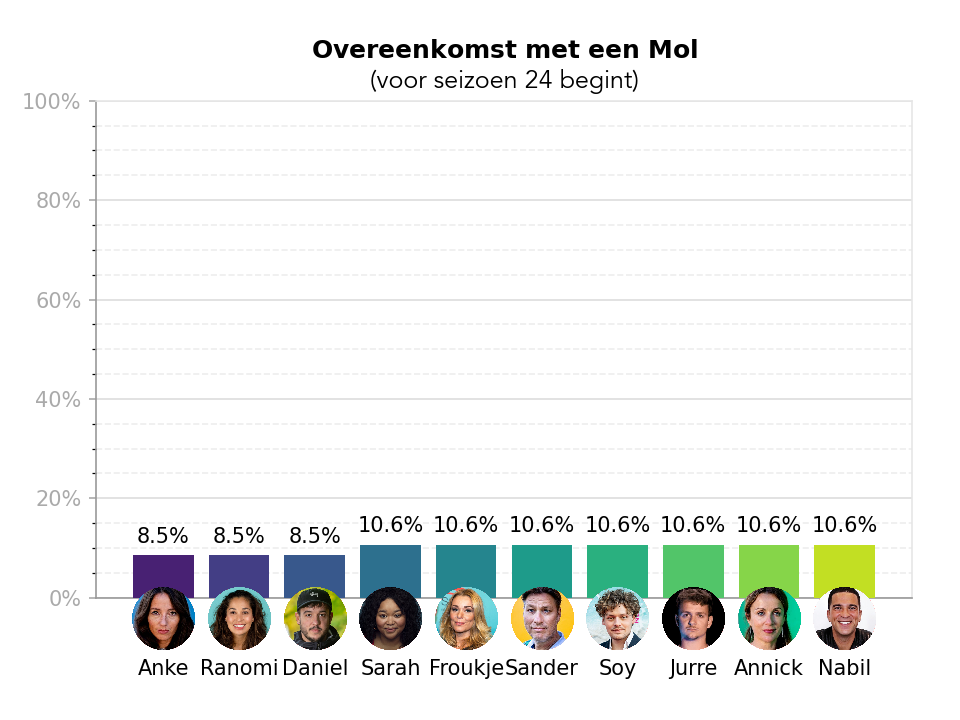
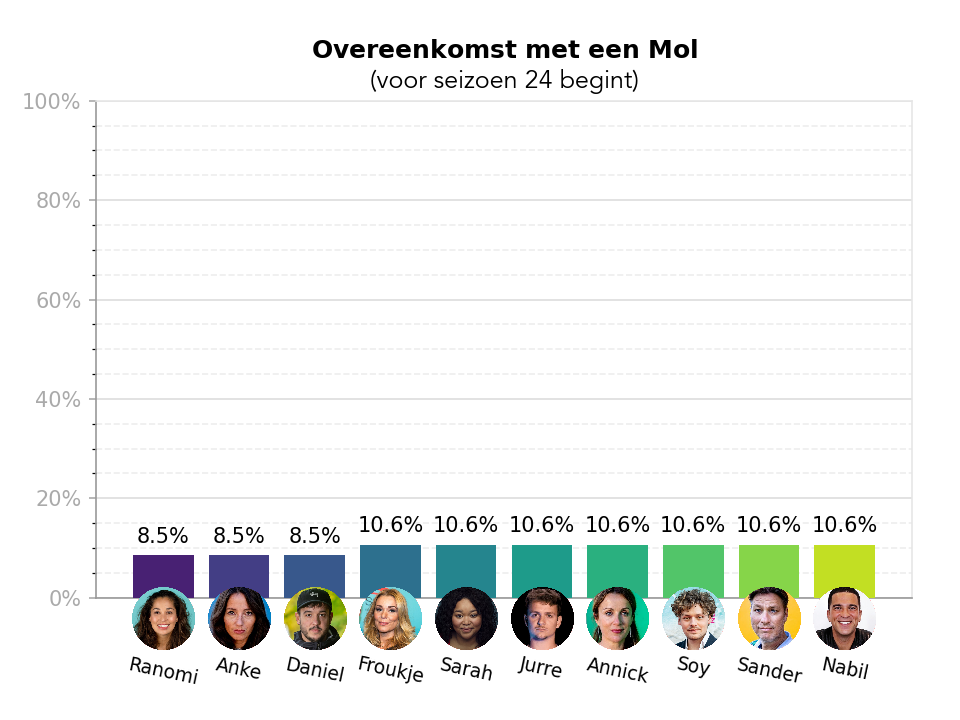
improve bar chart export for seasons without images

Changed region(s): [[0.125, 0.7944, 0.9062, 0.9472]]

diff --git a/moldel/Printers/BarChartPrinter.py b/moldel/Printers/BarChartPrinter.py
@@ -1,16 +1,15 @@
 from collections import deque
-
-from PIL import Image, ImageDraw
-
-from Data.PlayerData import get_name
 from Data.Player import Player
+from Data.PlayerData import get_name
 from iteround import saferound
+from matplotlib.offsetbox import OffsetImage, AnnotationBbox
+from PIL import Image, ImageDraw
 from Printers.Printer import Printer
 from typing import Dict, Union, List
-import matplotlib.ticker as mtick
-from matplotlib.offsetbox import OffsetImage, AnnotationBbox
 import matplotlib.pyplot as plt
+import matplotlib.ticker as mtick
 import numpy as np
+import os
 import seaborn as sns
 
 
@@ -58,6 +57,7 @@ class BarChartPrinter(Printer):
         plt.gca().spines['right'].set_color('0.9')
         plt.gca().spines['left'].set_color('0.6')
         plt.gca().tick_params(axis="x", which="minor", bottom=False)
+        plt.xticks(fontsize=9, rotation=-12)
         plt.gca().tick_params(axis='y', colors="#aaa")
         plt.grid(True, which="major", axis="y", color="#ddd", zorder=0)
         plt.grid(True, which="minor", axis="y", color="#eee", zorder=0, linestyle="--")
@@ -65,34 +65,36 @@ class BarChartPrinter(Printer):
         plt.ylim(0, 100)
         container = plt.bar(names, likelihoods, color=colors, zorder=3)
         plt.bar_label(container, fmt="%.1f%%", color="#000", zorder=4, padding=4)
+        plt.gca().set_xticks(range(len(names)))
+        plt.gca().set_xticklabels(names)
 
         def get_photo(name):
             path = "moldel/Data/Faces/{}-{}.jpg".format(self.__season, name.upper())
-            im = Image.open(path)
-            smallestSize = min(im.width, im.height)
-            offsetX = (im.width-smallestSize)/2 if (im.width-smallestSize) else 0
-            offsetY = (im.height-smallestSize)/2 if (im.height-smallestSize) else 0
-            im = im.resize((300, 300), resample=Image.Resampling.BICUBIC, box=(
-                offsetX, offsetY, smallestSize + offsetX, smallestSize + offsetY))
+            if os.path.isfile(path):
+                im = Image.open(path)
+                smallestSize = min(im.width, im.height)
+                offsetX = (im.width-smallestSize)/2 if (im.width-smallestSize) else 0
+                offsetY = (im.height-smallestSize)/2 if (im.height-smallestSize) else 0
+                im = im.resize((300, 300), resample=Image.Resampling.BICUBIC, box=(
+                    offsetX, offsetY, smallestSize + offsetX, smallestSize + offsetY))
 
-            mask = Image.new("L", (300, 300), 0)
-            drawMask = ImageDraw.Draw(mask)
-            drawMask.ellipse((0, 0, 300, 300), fill=255)
-            bg = Image.new("RGBA", (300, 300), (255, 0, 0, 0))
-            im = Image.composite(im, bg, mask)
-            return im
+                mask = Image.new("L", (300, 300), 0)
+                drawMask = ImageDraw.Draw(mask)
+                drawMask.ellipse((0, 0, 300, 300), fill=255)
+                bg = Image.new("RGBA", (300, 300), (255, 0, 0, 0))
+                im = Image.composite(im, bg, mask)
+                return im
+            return None
 
         def insert_image(coord, name, ax):
             img = get_photo(name)
-            im = OffsetImage(img, zoom=0.1)
-            im.image.axes = ax
-            ab = AnnotationBbox(im, (coord, 0),  xybox=(0., -10), frameon=False,
-                                xycoords='data',  boxcoords="offset points", pad=0)
-            ax.add_artist(ab)
-
-        plt.gca().set_xticks(range(len(names)))
-        plt.gca().set_xticklabels(names)
-        plt.gca().tick_params(axis='x', which='major', pad=26)
+            if img:
+                im = OffsetImage(img, zoom=0.1)
+                im.image.axes = ax
+                ab = AnnotationBbox(im, (coord, 0),  xybox=(0., -10), frameon=False,
+                                    xycoords='data',  boxcoords="offset points", pad=0)
+                ax.add_artist(ab)
+                plt.gca().tick_params(axis='x', which='major', pad=24)
 
         for i, c in enumerate(names):
             insert_image(i, c, plt.gca())
